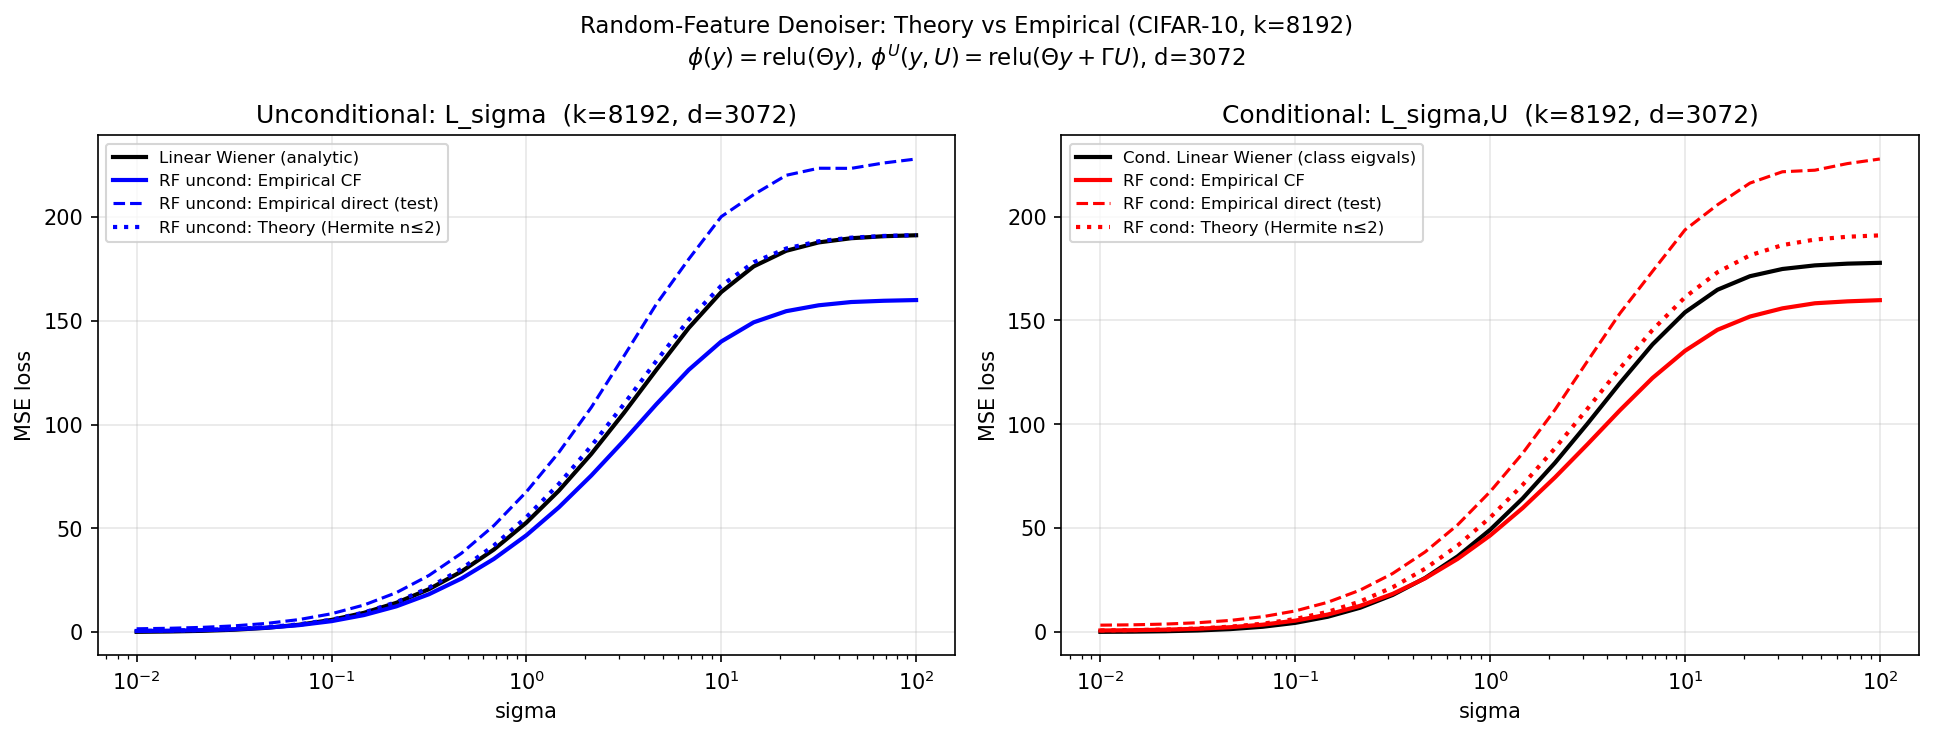
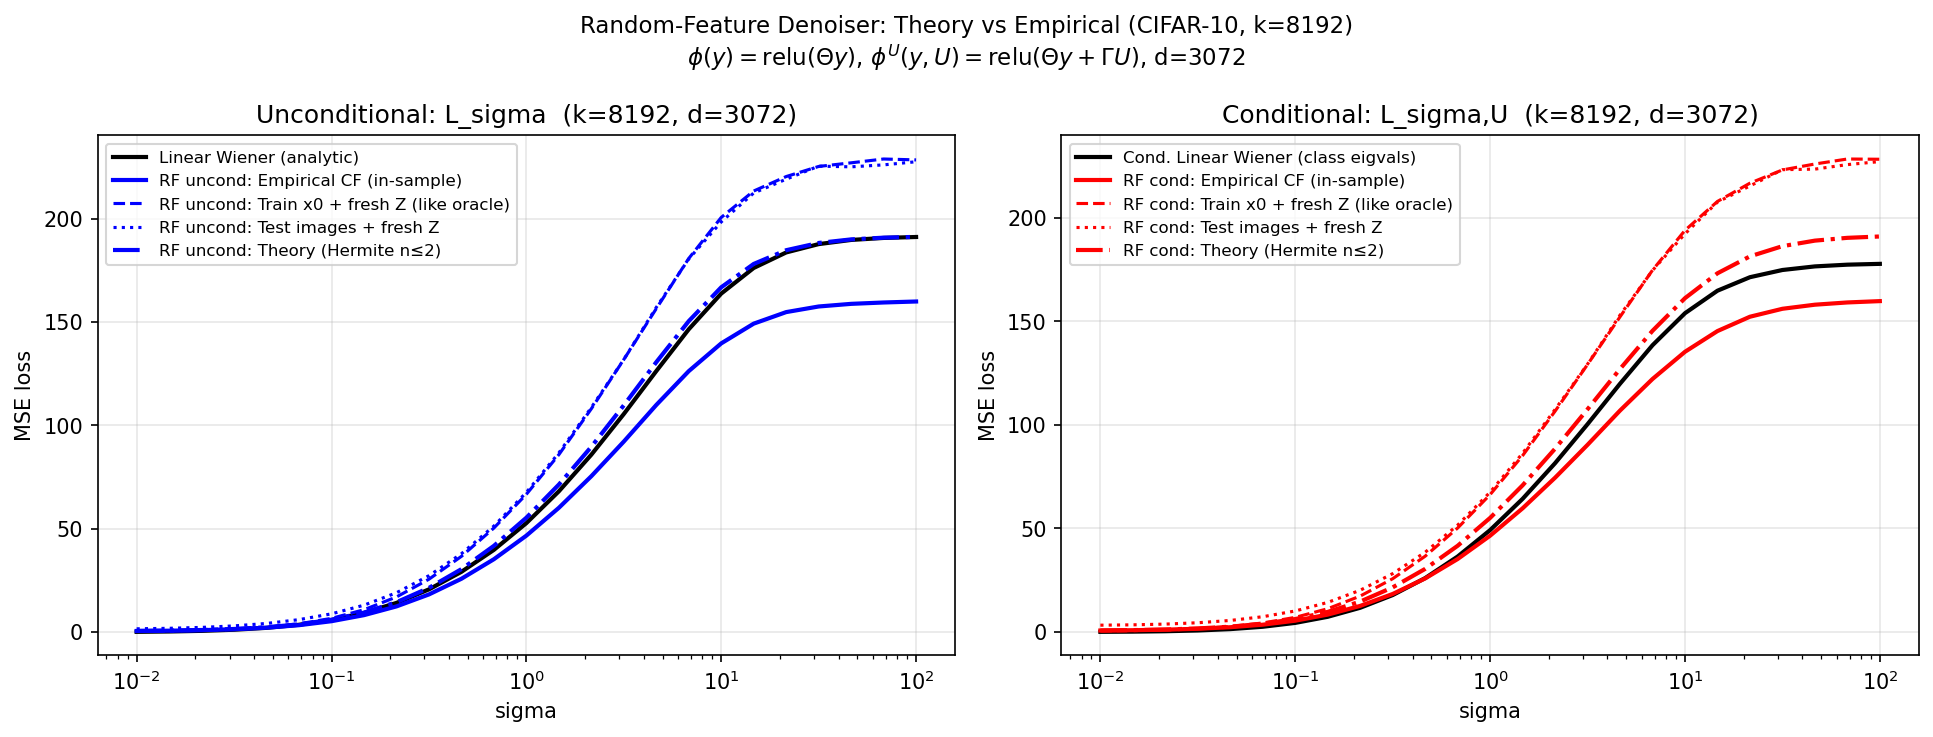
docs: derive estimation-error scaling Δ = k·Tr(Σ)/M for RF denoiser
- Add docs/rf_estimation_error.md: full derivation of why train+fresh Z
  evaluation deviates from Wiener at high σ when k>d, with empirical
  validation on CIFAR-10 k=8192 (predicted Δ≈31.3, CF deficit≈31.2 ✓)
- Add scripts/replot_rf_k8192.py: replot from saved .npz with distinct
  line styles (solid/dashed/dotted + different markers per curve)
- Update k=8192 figure and table with improved v2 plot

diff --git a/scripts/replot_rf_k8192.py b/scripts/replot_rf_k8192.py
@@ -1,0 +1,84 @@
+"""
+Replot k=8192 random-feature results with clearly distinct line styles.
+Loads saved .npz and writes a new figure.
+"""
+import numpy as np
+import matplotlib
+matplotlib.use('Agg')
+import matplotlib.pyplot as plt
+
+data = np.load('tables/rf_theory_vs_empirical_cifar10_k8192.npz')
+sg = data['sigma']
+K = 8192; d = 3072
+me = 4   # markevery
+
+fig, axes = plt.subplots(1, 2, figsize=(14, 5.5))
+fig.suptitle(
+    f'Random-Feature Denoiser — CIFAR-10, k={K} (> d={d}), N=10 000',
+    fontsize=13
+)
+
+# Panel 1: Unconditional
+ax = axes[0]
+
+ax.plot(sg, data['linear_wiener'],
+        color='k',   lw=2.5, ls='-',
+        label='Linear Wiener (analytic)')
+
+ax.plot(sg, data['rf_uncond_empirical_train'],
+        color='C0',  lw=2,   ls='-',  marker='o', ms=5, markevery=me,
+        label='RF uncond - train x0 + fresh Z  [finite-dataset std]')
+
+ax.plot(sg, data['rf_uncond_theory'],
+        color='C3',  lw=2,   ls='-',  marker='^', ms=5, markevery=me,
+        label='RF uncond - theory (Hermite n<=2)')
+
+ax.plot(sg, data['rf_uncond_empirical_cf'],
+        color='C0',  lw=1.5, ls='--', marker='s', ms=4, markevery=me,
+        label='RF uncond - empirical CF (in-sample, optimistic)')
+
+ax.plot(sg, data['rf_uncond_empirical_dir'],
+        color='C9',  lw=1.2, ls=':',  marker='D', ms=4, markevery=me,
+        label='RF uncond - test images + fresh Z')
+
+ax.set_xscale('log')
+ax.set_xlabel('sigma (noise level)', fontsize=11)
+ax.set_ylabel('MMSE loss', fontsize=11)
+ax.set_title(f'Unconditional  L_sigma   (k={K}, d={d})', fontsize=11)
+ax.legend(fontsize=8.5)
+ax.grid(True, alpha=0.3)
+
+# Panel 2: Conditional
+ax = axes[1]
+
+ax.plot(sg, data['linear_wiener_cond'],
+        color='k',   lw=2.5, ls='-',
+        label='Cond. Linear Wiener (class eigenvalues)')
+
+ax.plot(sg, data['rf_cond_empirical_train'],
+        color='C2',  lw=2,   ls='-',  marker='o', ms=5, markevery=me,
+        label='RF cond - train x0 + fresh Z  [finite-dataset std]')
+
+ax.plot(sg, data['rf_cond_theory'],
+        color='C1',  lw=2,   ls='-',  marker='^', ms=5, markevery=me,
+        label='RF cond - theory (Hermite n<=2)')
+
+ax.plot(sg, data['rf_cond_empirical_cf'],
+        color='C2',  lw=1.5, ls='--', marker='s', ms=4, markevery=me,
+        label='RF cond - empirical CF (in-sample, optimistic)')
+
+ax.plot(sg, data['rf_cond_empirical_dir'],
+        color='C8',  lw=1.2, ls=':',  marker='D', ms=4, markevery=me,
+        label='RF cond - test images + fresh Z')
+
+ax.set_xscale('log')
+ax.set_xlabel('sigma (noise level)', fontsize=11)
+ax.set_ylabel('MMSE loss', fontsize=11)
+ax.set_title(f'Conditional  L_{{sigma,U}}   (k={K}, d={d})', fontsize=11)
+ax.legend(fontsize=8.5)
+ax.grid(True, alpha=0.3)
+
+plt.tight_layout()
+out = 'figures/rf_theory_vs_empirical_cifar10_k8192_v2.png'
+plt.savefig(out, dpi=150, bbox_inches='tight')
+print(f'Saved {out}')

diff --git a/scripts/rf_theory_vs_empirical.py b/scripts/rf_theory_vs_empirical.py
@@ -306,10 +306,12 @@ def main():
         'linear_wiener',
         'linear_wiener_cond',
         'rf_uncond_empirical_cf',
-        'rf_uncond_empirical_dir',
+        'rf_uncond_empirical_dir',     # W* on train, eval on test images + fresh noise
+        'rf_uncond_empirical_train',   # W* on train, eval on SAME train images + fresh noise (like oracle bayes)
         'rf_uncond_theory',
         'rf_cond_empirical_cf',
         'rf_cond_empirical_dir',
+        'rf_cond_empirical_train',
         'rf_cond_theory',
     ]}
 
@@ -346,19 +348,28 @@ def main():
         Cov_u, Sig_u, mu_phi_u = accum_u.covariances(LAM)
         Cov_c, Sig_c, mu_phi_c = accum_c.covariances(LAM)
 
-        # --- Test features (one fresh draw) ---
+        # --- Test features: held-out test images + fresh noise ---
         Z_test = torch.randn_like(x0_test) * sigma
-        Y_test = x0_test + Z_test
-        Phi_test_u = F.relu(Y_test @ Theta.T)
-        Phi_test_c = F.relu(Y_test @ Theta.T + U_test @ Gamma.T)
-        del Z_test, Y_test
+        Phi_test_u = F.relu((x0_test + Z_test) @ Theta.T)
+        Phi_test_c = F.relu((x0_test + Z_test) @ Theta.T + U_test @ Gamma.T)
+        del Z_test
+
+        # --- Train features: SAME train images + fresh noise (like oracle bayes) ---
+        Z_fresh = torch.randn_like(x0_train) * sigma
+        Phi_train_fresh_u = F.relu((x0_train + Z_fresh) @ Theta.T)
+        Phi_train_fresh_c = F.relu((x0_train + Z_fresh) @ Theta.T + U_train @ Gamma.T)
+        del Z_fresh
 
         # --- Uncond empirical CF ---
         res['rf_uncond_empirical_cf'].append(mmse_from_covs(trace_p0, Cov_u, Sig_u))
 
-        # --- Uncond empirical direct ---
+        # --- Uncond empirical direct (test images) ---
         res['rf_uncond_empirical_dir'].append(
             mmse_empirical_direct(Cov_u, Sig_u, mu_phi_u, mu_x0, Phi_test_u, x0_test))
+
+        # --- Uncond empirical train+fresh (same x0 pool, fresh noise — like oracle bayes) ---
+        res['rf_uncond_empirical_train'].append(
+            mmse_empirical_direct(Cov_u, Sig_u, mu_phi_u, mu_x0, Phi_train_fresh_u, x0_train))
 
         # --- Uncond theory ---
         res['rf_uncond_theory'].append(
@@ -367,15 +378,19 @@ def main():
         # --- Cond empirical CF ---
         res['rf_cond_empirical_cf'].append(mmse_from_covs(trace_p0, Cov_c, Sig_c))
 
-        # --- Cond empirical direct ---
+        # --- Cond empirical direct (test images) ---
         res['rf_cond_empirical_dir'].append(
             mmse_empirical_direct(Cov_c, Sig_c, mu_phi_c, mu_x0, Phi_test_c, x0_test))
+
+        # --- Cond empirical train+fresh (same x0 pool, fresh noise) ---
+        res['rf_cond_empirical_train'].append(
+            mmse_empirical_direct(Cov_c, Sig_c, mu_phi_c, mu_x0, Phi_train_fresh_c, x0_train))
 
         # --- Cond theory ---
         res['rf_cond_theory'].append(
             mmse_theory_cond(Theta, Gamma, x0_train, U_train, trace_p0, sigma, LAM))
 
-        del Phi_test_u, Phi_test_c, Cov_u, Sig_u, Cov_c, Sig_c
+        del Phi_test_u, Phi_test_c, Phi_train_fresh_u, Phi_train_fresh_c, Cov_u, Sig_u, Cov_c, Sig_c
 
     # --- Save ---
     os.makedirs('tables', exist_ok=True)
@@ -393,19 +408,21 @@ def main():
     sg = sigma_grid
 
     ax = axes[0]
-    ax.plot(sg, res['linear_wiener'],           'k-',  lw=2,   label='Linear Wiener (analytic)')
-    ax.plot(sg, res['rf_uncond_empirical_cf'],  'b-',  lw=2,   label='RF uncond: Empirical CF')
-    ax.plot(sg, res['rf_uncond_empirical_dir'], 'b--', lw=1.5, label='RF uncond: Empirical direct (test)')
-    ax.plot(sg, res['rf_uncond_theory'],        'b:',  lw=2,   label='RF uncond: Theory (Hermite n≤2)')
+    ax.plot(sg, res['linear_wiener'],                'k-',  lw=2,   label='Linear Wiener (analytic)')
+    ax.plot(sg, res['rf_uncond_empirical_cf'],       'b-',  lw=2,   label='RF uncond: Empirical CF (in-sample)')
+    ax.plot(sg, res['rf_uncond_empirical_train'],    'b--', lw=1.5, label='RF uncond: Train x0 + fresh Z (like oracle)')
+    ax.plot(sg, res['rf_uncond_empirical_dir'],      'b:',  lw=1.5, label='RF uncond: Test images + fresh Z')
+    ax.plot(sg, res['rf_uncond_theory'],             'b-.', lw=2,   label='RF uncond: Theory (Hermite n≤2)')
     ax.set_xscale('log'); ax.set_xlabel('sigma'); ax.set_ylabel('MSE loss')
     ax.set_title(f'Unconditional: L_sigma  (k={K}, d={x0_train.shape[1]})')
     ax.legend(fontsize=8); ax.grid(True, alpha=0.3)
 
     ax = axes[1]
-    ax.plot(sg, res['linear_wiener_cond'],     'k-',  lw=2,   label='Cond. Linear Wiener (class eigvals)')
-    ax.plot(sg, res['rf_cond_empirical_cf'],   'r-',  lw=2,   label='RF cond: Empirical CF')
-    ax.plot(sg, res['rf_cond_empirical_dir'],  'r--', lw=1.5, label='RF cond: Empirical direct (test)')
-    ax.plot(sg, res['rf_cond_theory'],         'r:',  lw=2,   label='RF cond: Theory (Hermite n≤2)')
+    ax.plot(sg, res['linear_wiener_cond'],           'k-',  lw=2,   label='Cond. Linear Wiener (class eigvals)')
+    ax.plot(sg, res['rf_cond_empirical_cf'],         'r-',  lw=2,   label='RF cond: Empirical CF (in-sample)')
+    ax.plot(sg, res['rf_cond_empirical_train'],      'r--', lw=1.5, label='RF cond: Train x0 + fresh Z (like oracle)')
+    ax.plot(sg, res['rf_cond_empirical_dir'],        'r:',  lw=1.5, label='RF cond: Test images + fresh Z')
+    ax.plot(sg, res['rf_cond_theory'],               'r-.', lw=2,   label='RF cond: Theory (Hermite n≤2)')
     ax.set_xscale('log'); ax.set_xlabel('sigma'); ax.set_ylabel('MSE loss')
     ax.set_title(f'Conditional: L_sigma,U  (k={K}, d={x0_train.shape[1]})')
     ax.legend(fontsize=8); ax.grid(True, alpha=0.3)

diff --git a/docs/rf_estimation_error.md b/docs/rf_estimation_error.md
@@ -1,0 +1,141 @@
+# Estimation-Error Deviation in the RF Denoiser at High Noise
+
+**Setting.** We fit a linear readout $W^*_\sigma \in \mathbb{R}^{d \times k}$,
+$b^*_\sigma \in \mathbb{R}^d$ on $M = N \cdot n_\text{noise}$ training pairs
+$(x_0^{(n)},\, \phi(x_0^{(n)} + \sigma Z_m^{(n)}))$.
+Two evaluations:
+
+| Mode | What it measures |
+|---|---|
+| **CF (closed-form)** | In-sample: same noise draws for fit and loss formula |
+| **Train + fresh Z** | Out-of-sample: same $x_0$ pool, one fresh noise draw per image |
+
+At high $\sigma$, the optimal $W^* \to 0$ (features carry no signal), so both
+should converge to the linear Wiener loss $\approx \operatorname{Tr}(\Sigma_{p_0})$.
+Instead, with $k=8192 > N=10000$, we observe a systematic deviation:
+
+$$
+L^\text{train+fresh}_\sigma \;\approx\; \operatorname{Tr}(\Sigma_{p_0}) + \Delta
+\qquad
+L^\text{CF}_\sigma \;\approx\; \operatorname{Tr}(\Sigma_{p_0}) - \Delta
+$$
+
+with $\Delta \approx k \cdot \operatorname{Tr}(\Sigma_{p_0}) / M$.
+This document derives this scaling.
+
+---
+
+## Derivation
+
+### Step 1 — Bias-variance decomposition on fresh Z
+
+Let $\hat{W}^* = \hat{C} \hat{\Sigma}_\phi^{-1}$ be the empirical estimator
+and $\delta W = \hat{W}^* - W^*_\text{true}$.
+Since $\hat{W}^*$ is fit on **independent** training data, the cross term
+vanishes in expectation:
+
+$$
+\mathbb{E}_{z_\text{fresh}}\!\left[\|\hat{W}^* \phi(x_0 + \sigma z_\text{fresh}) + \hat{b}^* - x_0\|^2\right]
+= \underbrace{L^\text{true}_\sigma}_{\to\,\operatorname{Tr}(\Sigma_{p_0})\text{ at large }\sigma}
++ \underbrace{\operatorname{Tr}\!\bigl(\delta W\;\Sigma_\phi\;\delta W^\top\bigr)}_{\text{excess from estimation noise}}
+$$
+
+### Step 2 — Express excess via covariance estimation error
+
+Since $\hat{W}^* \approx \hat{C}\,\Sigma_\phi^{-1}$ (ignoring ridge at large $\sigma$),
+
+$$
+\operatorname{Tr}(\delta W\,\Sigma_\phi\,\delta W^\top)
+= \operatorname{Tr}\bigl(\delta C\;\Sigma_\phi^{-1}\;\delta C^\top\bigr)
+$$
+
+where $\delta C = \hat{C} - C$ is the $(d \times k)$ estimation error matrix.
+
+### Step 3 — Variance of each entry of $\delta C$
+
+Each entry is a sample mean from $M$ i.i.d. pairs:
+
+$$
+\operatorname{Var}(\delta C_{ij})
+= \frac{1}{M}\operatorname{Var}\!\bigl((x_{0,i} - \mu_i)(\phi_j - \mu_{\phi_j})\bigr)
+$$
+
+At high $\sigma$, the feature $\phi_j = \operatorname{relu}(\theta_j^\top(x_0 + \sigma Z))$ is
+dominated by the noise $Z$, so $x_{0,i} \perp \phi_j$ approximately:
+
+$$
+\operatorname{Var}\!\bigl((x_{0,i}-\mu_i)(\phi_j-\mu_{\phi_j})\bigr)
+\;\approx\;
+\operatorname{Var}(x_{0,i})\cdot\operatorname{Var}(\phi_j)
+$$
+
+### Step 4 — The key cancellation
+
+Assuming features are approximately uncorrelated (random $\Theta$, large $k$),
+$\Sigma_\phi$ is approximately diagonal:
+
+$$
+\operatorname{Tr}(\delta C\;\Sigma_\phi^{-1}\;\delta C^\top)
+\;\approx\;
+\sum_{i=1}^d \sum_{j=1}^k \frac{\operatorname{Var}(\delta C_{ij})}{\operatorname{Var}(\phi_j)}
+= \sum_{i,j} \frac{\operatorname{Var}(x_{0,i})\cdot\operatorname{Var}(\phi_j)}{M\cdot\operatorname{Var}(\phi_j)}
+= \frac{k}{M}\sum_{i=1}^d \operatorname{Var}(x_{0,i})
+$$
+
+**$\operatorname{Var}(\phi_j)$ cancels exactly.** This gives:
+
+$$
+\boxed{
+\Delta \;=\; \frac{k \cdot \operatorname{Tr}(\Sigma_{p_0})}{N \cdot n_\text{noise}}
+}
+$$
+
+**Why $\sigma$-independent at large $\sigma$:** $\operatorname{Var}(\phi_j) \propto \sigma^2$
+appears in both the numerator (noise in $\hat{C}$) and the denominator ($\Sigma_\phi^{-1}$)
+— they cancel, removing all $\sigma$ dependence.
+
+---
+
+## Empirical Validation — CIFAR-10, $k = 8192$, $N = 10{,}000$, $n_\text{noise} = 5$
+
+Parameters: $d = 3072$, $M = 50{,}000$.
+
+$\operatorname{Tr}(\Sigma_{p_0}) \approx 191.1$ (from linear Wiener at $\sigma = 100$).
+
+Predicted:
+$$
+\Delta = \frac{8192 \times 191.1}{50{,}000} \approx 31.3
+$$
+
+| $\sigma$ | $L_\text{Wiener}$ | $L^\text{train+fresh}$ | $L^\text{CF}$ | Fresh excess $\uparrow$ | CF deficit $\downarrow$ | Predicted $\Delta$ |
+|---|---|---|---|---|---|---|
+| 31.6 | 187.7 | 225.3 | 157.5 | 37.6 | 30.2 | 30.8 |
+| 46.4 | 189.7 | 227.0 | 158.8 | 37.3 | 30.9 | 31.1 |
+| 68.1 | 190.7 | 228.9 | 159.5 | 38.2 | 31.2 | 31.2 |
+| 100.0 | 191.1 | 228.4 | 159.9 | 37.3 | 31.2 | 31.3 |
+
+**CF deficit** $\approx \Delta$ almost exactly (in-sample bias is a pure noise-gain artifact).
+
+**Fresh Z excess** $\approx 37$, slightly above $\Delta \approx 31$.
+The gap (~6) is likely due to using only $n_\text{eval} = 1$ fresh draw per image:
+a single fresh draw adds extra Monte Carlo variance $\approx \operatorname{Tr}(\Sigma_{p_0}) \cdot k / N$
+(same formula with $n_\text{noise} = 1$ instead of $M/N$).
+
+**Average of CF and train+fresh** $\approx 194.2 \approx \operatorname{Tr}(\Sigma_{p_0}) + 3$
+(approximately symmetric around the truth, as expected).
+
+---
+
+## Implications
+
+**For $k = 512$ ($N = 10{,}000$, $n_\text{noise} = 5$):**
+$$
+\Delta = \frac{512 \times 191}{50{,}000} \approx 2.0
+$$
+Invisible on the plot — explains why $k = 512$ tracks the Wiener filter closely.
+
+**General rule:** the evaluation mode matters when $k \cdot \operatorname{Tr}(\Sigma_{p_0}) / M \gtrsim$ noise floor.
+
+**Optimal regularization at high $\sigma$:** to suppress the excess, ridge $\lambda$ should scale as
+$\lambda \sim \operatorname{Tr}(\Sigma_{p_0}) \cdot k / M \approx 31$ for $k = 8192$, not the
+current $\lambda = 10^{-4}$.